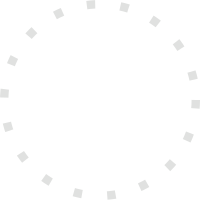
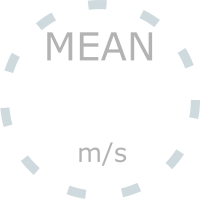
Graph updates: Multiple graphs at once.

diff --git a/wfs.py b/wfs.py
@@ -350,16 +350,16 @@ class App(QWidget):
         self.windContainer = QVBoxLayout(self)
 
         try: #Wind box
-            self.windHeader = QHBoxLayout()
-            self.windHL = QLabel("WIND")
-            self.windHL.setFont(QFont('Arial', 20))
-            self.windHL.setAlignment(Qt.AlignCenter)
-            self.windHeader.addWidget(self.windHL)
-            self.meanHL = QLabel("MEAN")
-            self.meanHL.setFont(QFont('Arial', 20))
-            self.meanHL.setAlignment(Qt.AlignCenter)
-            self.windHeader.addWidget(self.meanHL)
-            self.windContainer.addLayout(self.windHeader)
+            # self.windHeader = QHBoxLayout()
+            # self.windHL = QLabel("WIND")
+            # self.windHL.setFont(QFont('Arial', 20))
+            # self.windHL.setAlignment(Qt.AlignCenter)
+            # self.windHeader.addWidget(self.windHL)
+            # self.meanHL = QLabel("MEAN")
+            # self.meanHL.setFont(QFont('Arial', 20))
+            # self.meanHL.setAlignment(Qt.AlignCenter)
+            # self.windHeader.addWidget(self.meanHL)
+            # self.windContainer.addLayout(self.windHeader)
 
             self.windBox = QHBoxLayout()
             self.windFrame = QFrame(self)
